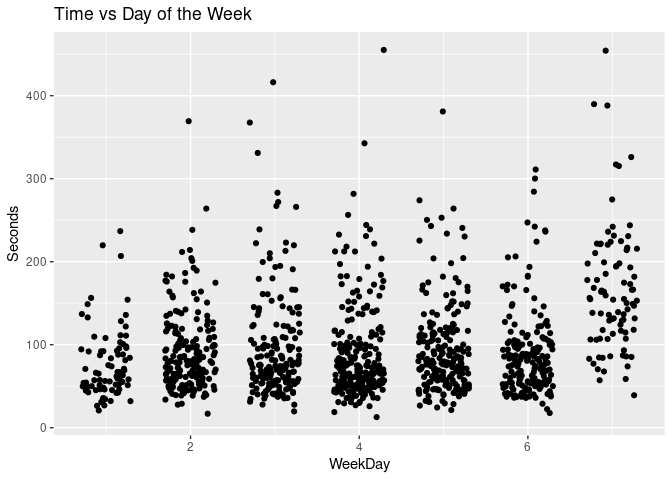
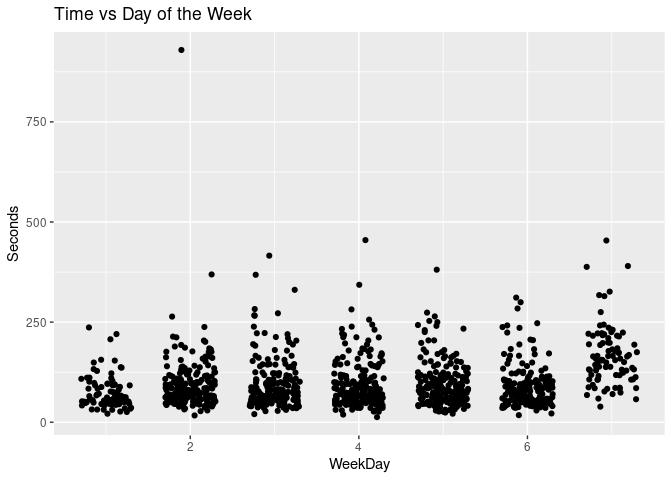
Added new observations

diff --git a/analysis/nyt_mini_crossword.md b/analysis/nyt_mini_crossword.md
@@ -1,7 +1,7 @@
 ---
 title: "New York Time Mini Crossword"
 author: "Stephen Kaluzny"
-date: "07 November, 2021"
+date: "25 November, 2021"
 output:
   html_document:
     keep_md: true
@@ -167,7 +167,7 @@ d %>%
 
 ## Summary Statistics
 
-Current data set has 1224 observations.
+Current data set has 1252 observations.
 
 
 ```r
@@ -180,12 +180,12 @@ d %>% group_by(Player) %>%
 ## # A tibble: 6 × 6
 ##   Player  Mean Median   Min   Max     N
 ##   <chr>  <dbl>  <dbl> <dbl> <dbl> <int>
-## 1 SKK     51       47    21    89     4
-## 2 AKK     55       55    55    55     1
-## 3 JIK     77.4     60    13   264   238
-## 4 SPK    102.      84    18   455   487
-## 5 JAK    102.      86    27   454   437
-## 6 BBK    117.     102    42   350    57
+## 1 SKK     51     47      21    89     4
+## 2 AKK     55     55      55    55     1
+## 3 JIK     76.9   59.5    13   264   242
+## 4 SPK    103.    84      18   930   498
+## 5 JAK    102.    86      27   454   446
+## 6 BBK    116.   102      42   350    61
 ```
 
 ## Subset the Data
@@ -200,7 +200,7 @@ d <- d %>%
   filter(Player %in% c("SPK", "JAK", "JIK"))
 ```
 
-Now have 1162 observations.
+Now have 1186 observations.
 
 ## Plots
 
@@ -333,7 +333,7 @@ sessionInfo()
 ## loaded via a namespace (and not attached):
 ##  [1] highr_0.9        pillar_1.6.4     bslib_0.3.1      compiler_4.1.1  
 ##  [5] jquerylib_0.1.4  tools_4.1.1      digest_0.6.28    lubridate_1.8.0 
-##  [9] jsonlite_1.7.2   evaluate_0.14    lifecycle_1.0.1  tibble_3.1.5    
+##  [9] jsonlite_1.7.2   evaluate_0.14    lifecycle_1.0.1  tibble_3.1.6    
 ## [13] gtable_0.3.0     pkgconfig_2.0.3  rlang_0.4.12     cli_3.1.0       
 ## [17] DBI_1.1.1        yaml_2.2.1       xfun_0.28        fastmap_1.1.0   
 ## [21] withr_2.4.2      stringr_1.4.0    knitr_1.36       hms_1.1.1       
